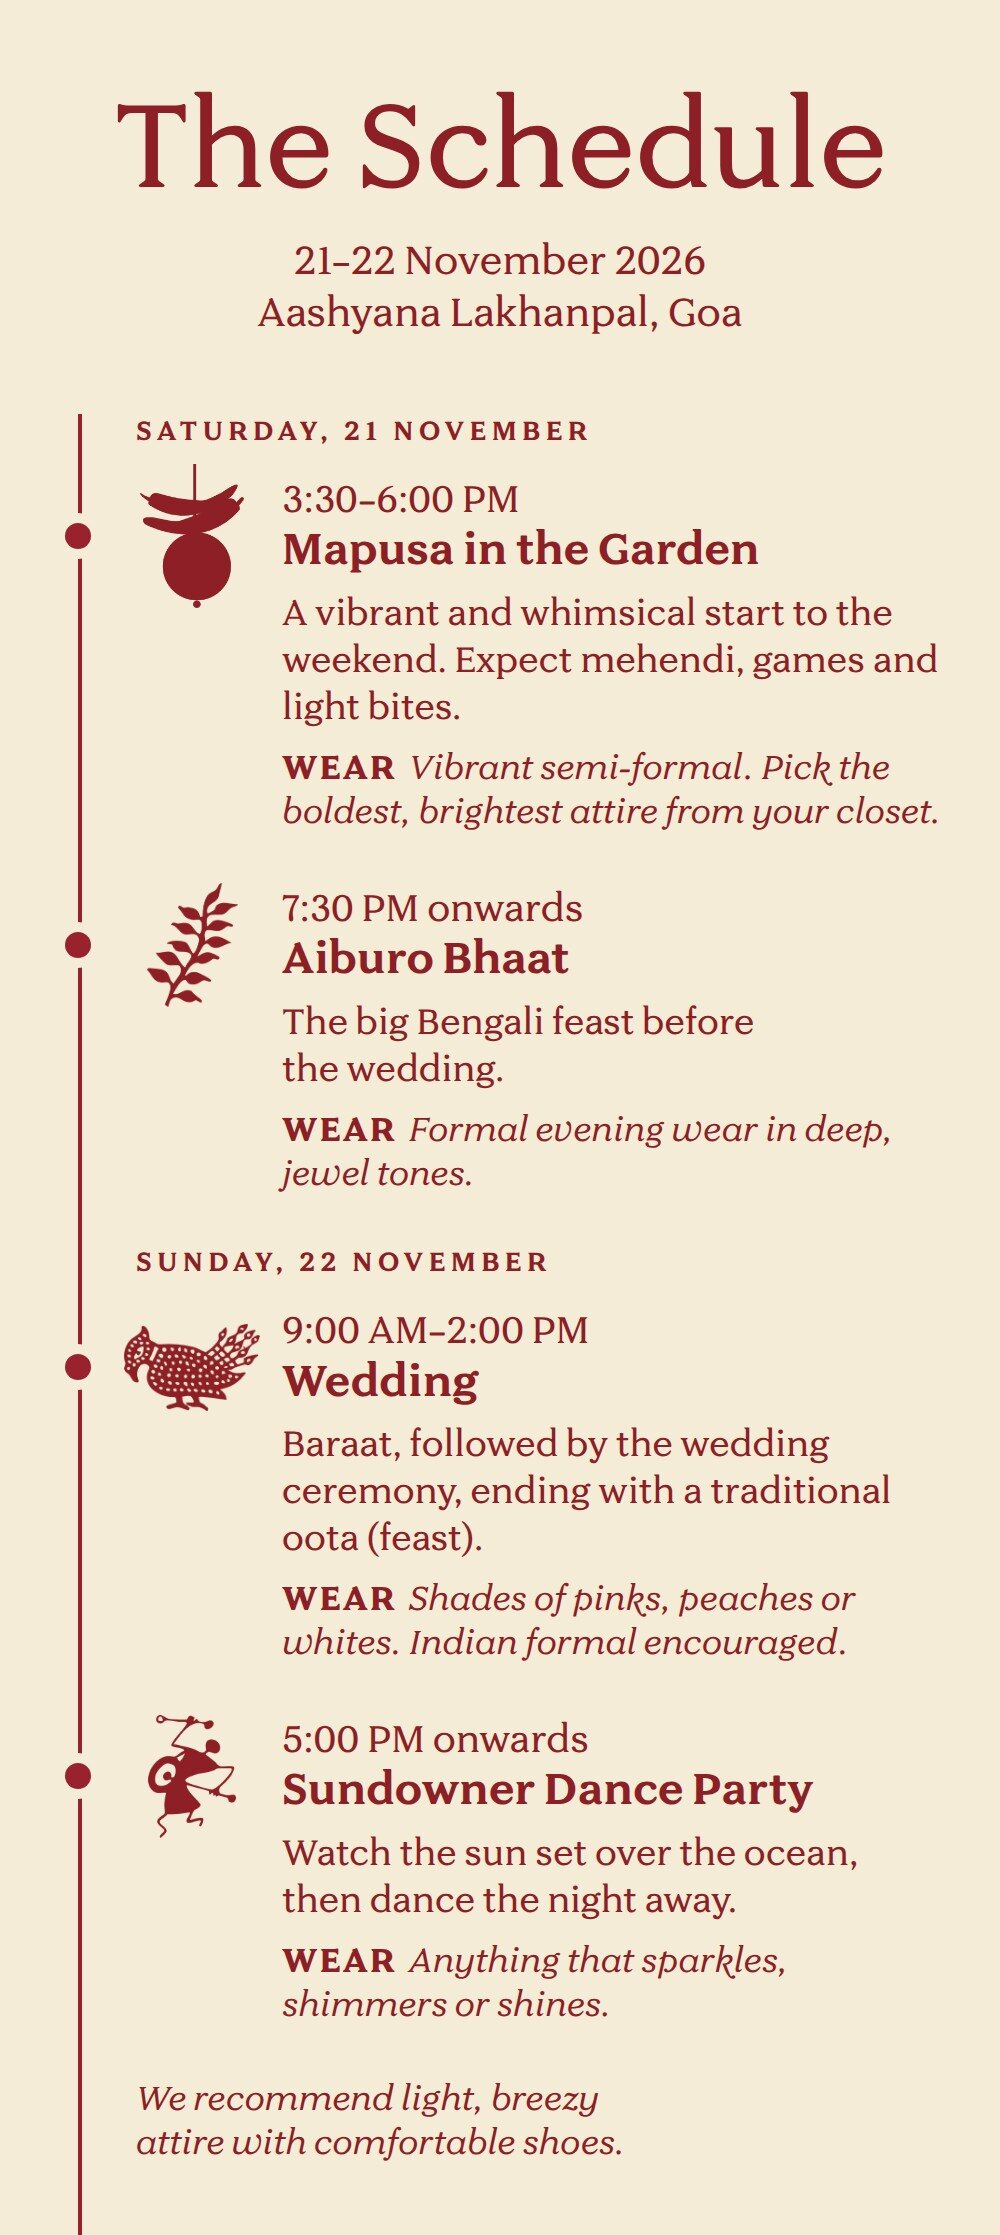
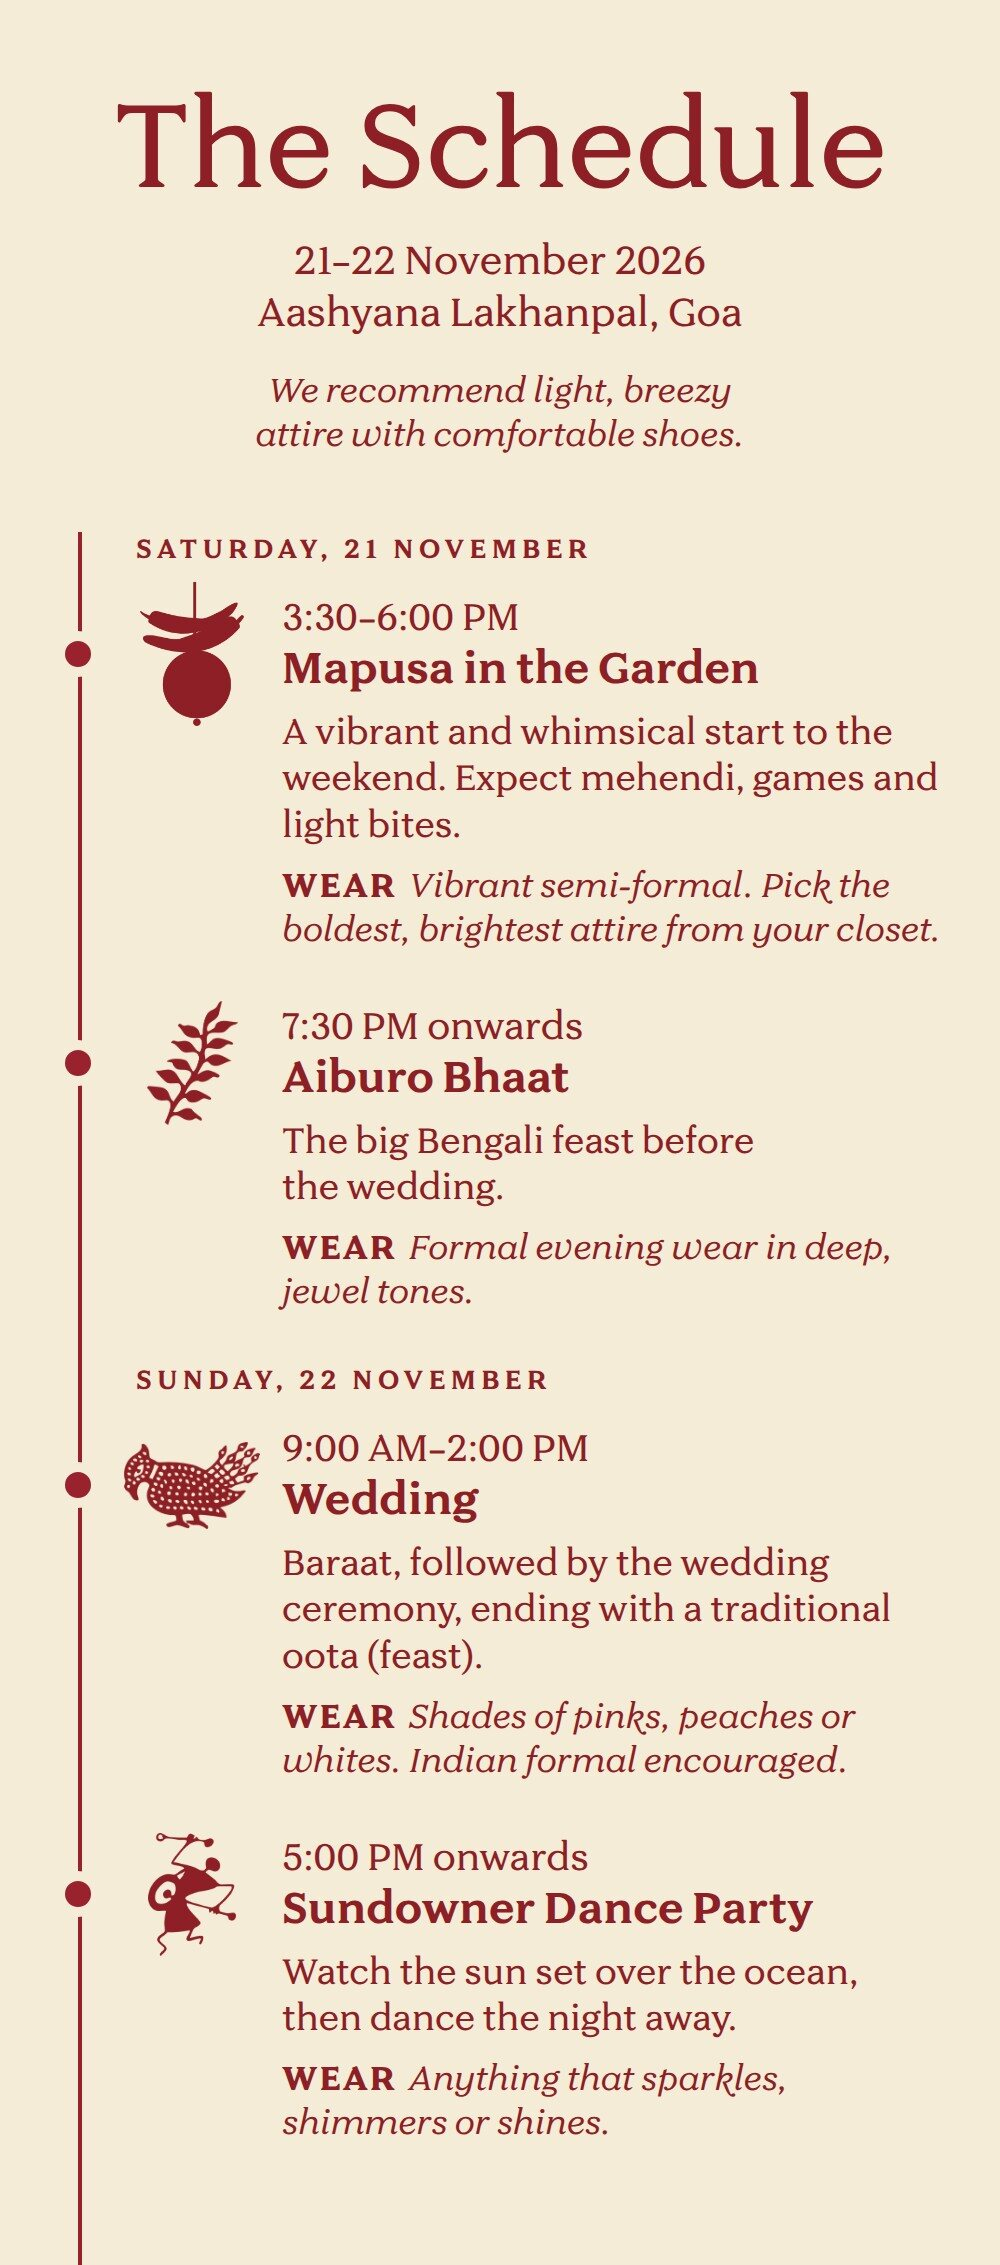
Lead the phone schedule card with the attire note
On the portrait card, "We recommend light, breezy attire with
comfortable shoes" moves from after the last event to the header,
centred beneath the date and venue and before the timeline begins.
The timeline again runs to the card's bottom edge. The card grows
from 2235px to 2265px tall, and the invitation's tall-card ratio
follows. The wide card keeps the note at its foot.

Claude-Session: https://claude.ai/code/session_015nVibWDUthAChW866LzLGR

diff --git a/design/schedule-card/portrait.html b/design/schedule-card/portrait.html
@@ -87,10 +87,11 @@
       letter-spacing: 0.06em;
       margin-right: 0.35em;
     }
-    /* a word on dress for the whole weekend, flush with the day
-       headings so the timeline still runs past it to the card's edge */
+    /* a word on dress for the whole weekend, centred under the date
+       and venue before the timeline begins */
     .note {
-      margin: 0 0 0 136px;
+      margin: 30px auto 0;
+      max-width: 760px;
       font-style: italic;
       font-size: 34px;
       line-height: 1.3;
@@ -103,6 +104,7 @@
     <div class="top">
       <h1 class="title">The Schedule</h1>
       <p class="sub">21&ndash;22 November 2026<br>Aashyana Lakhanpal, Goa</p>
+      <p class="note">We recommend light, breezy attire with comfortable shoes.</p>
     </div>
 
     <div class="timeline">
@@ -151,8 +153,6 @@
           <p class="wear"><span class="wear-label">Wear</span>Anything that sparkles, shimmers or shines.</p>
         </div>
       </div>
-
-      <p class="note">We recommend light, breezy attire with comfortable shoes.</p>
     </div>
   </div>
 </body>

diff --git a/invite.js b/invite.js
@@ -64,7 +64,7 @@
   var GLANCE = {
     wide: { img: 'assets/invite/schedule.jpg', ratio: 2000 / 1404, fill: 0.75,
             file: 'Jayant-and-Anjali-Schedule.jpg' },
-    tall: { img: 'assets/invite/schedule_portrait.jpg', ratio: 1000 / 2235, fill: 0.78,
+    tall: { img: 'assets/invite/schedule_portrait.jpg', ratio: 1000 / 2265, fill: 0.78,
             file: 'Jayant-and-Anjali-Schedule-Phone.jpg' }
   };
   var ACCENT = '#d8c08a';
